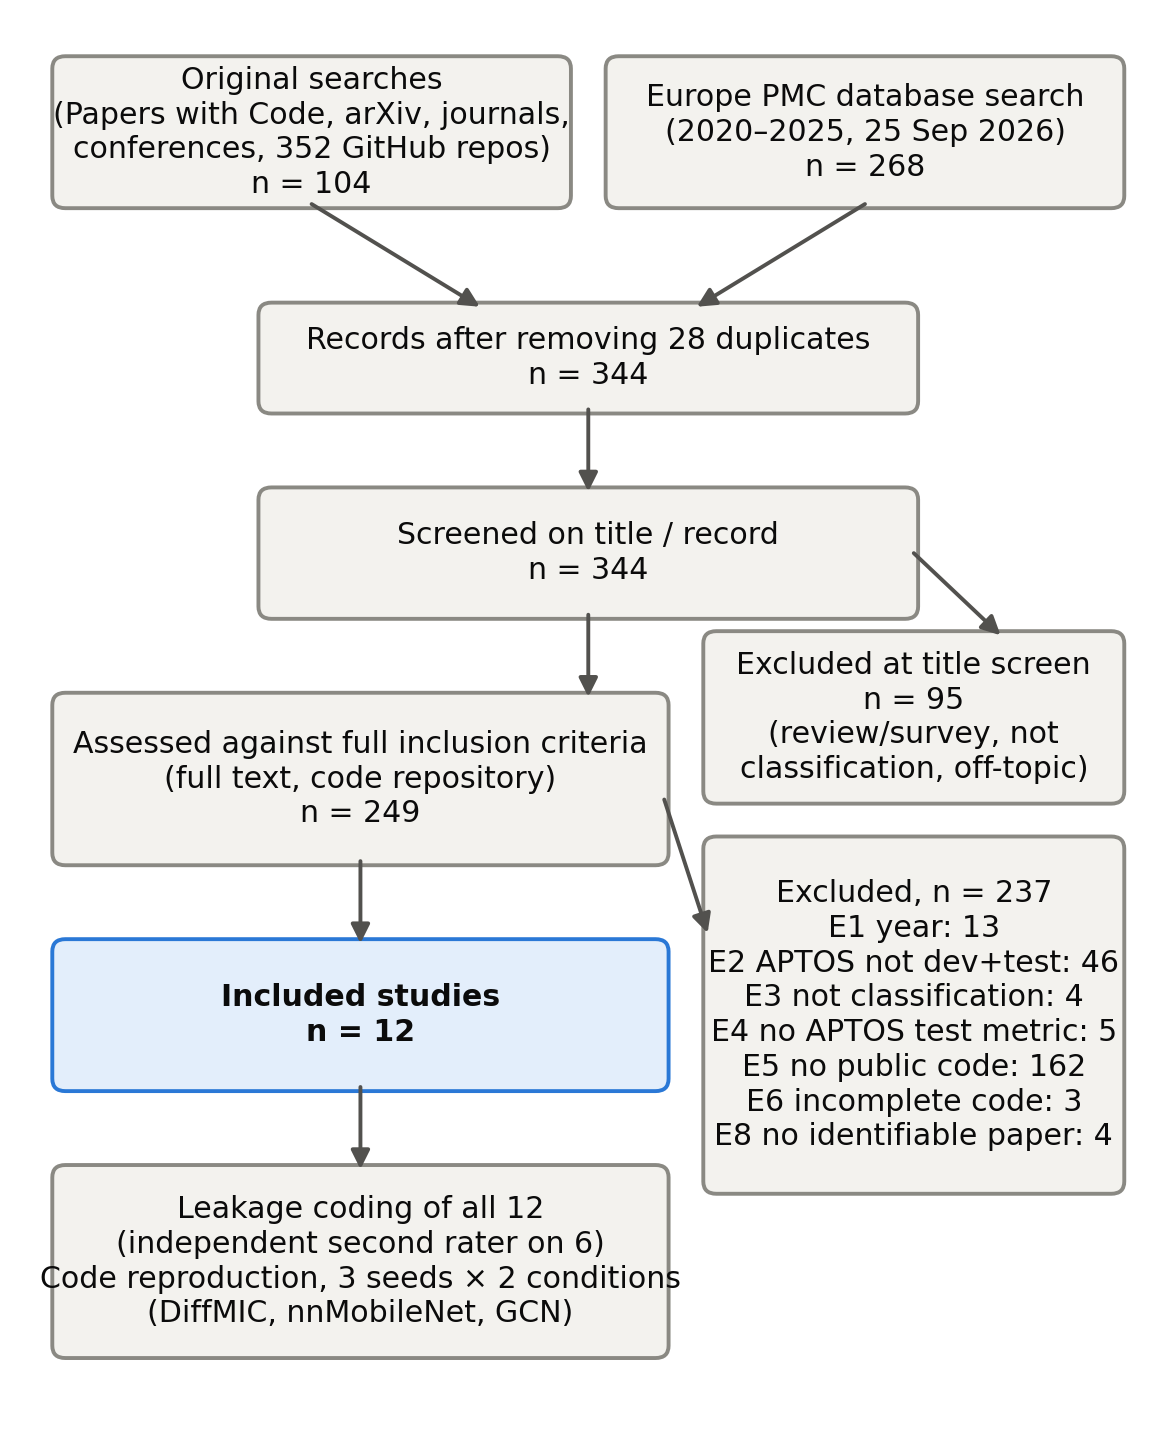
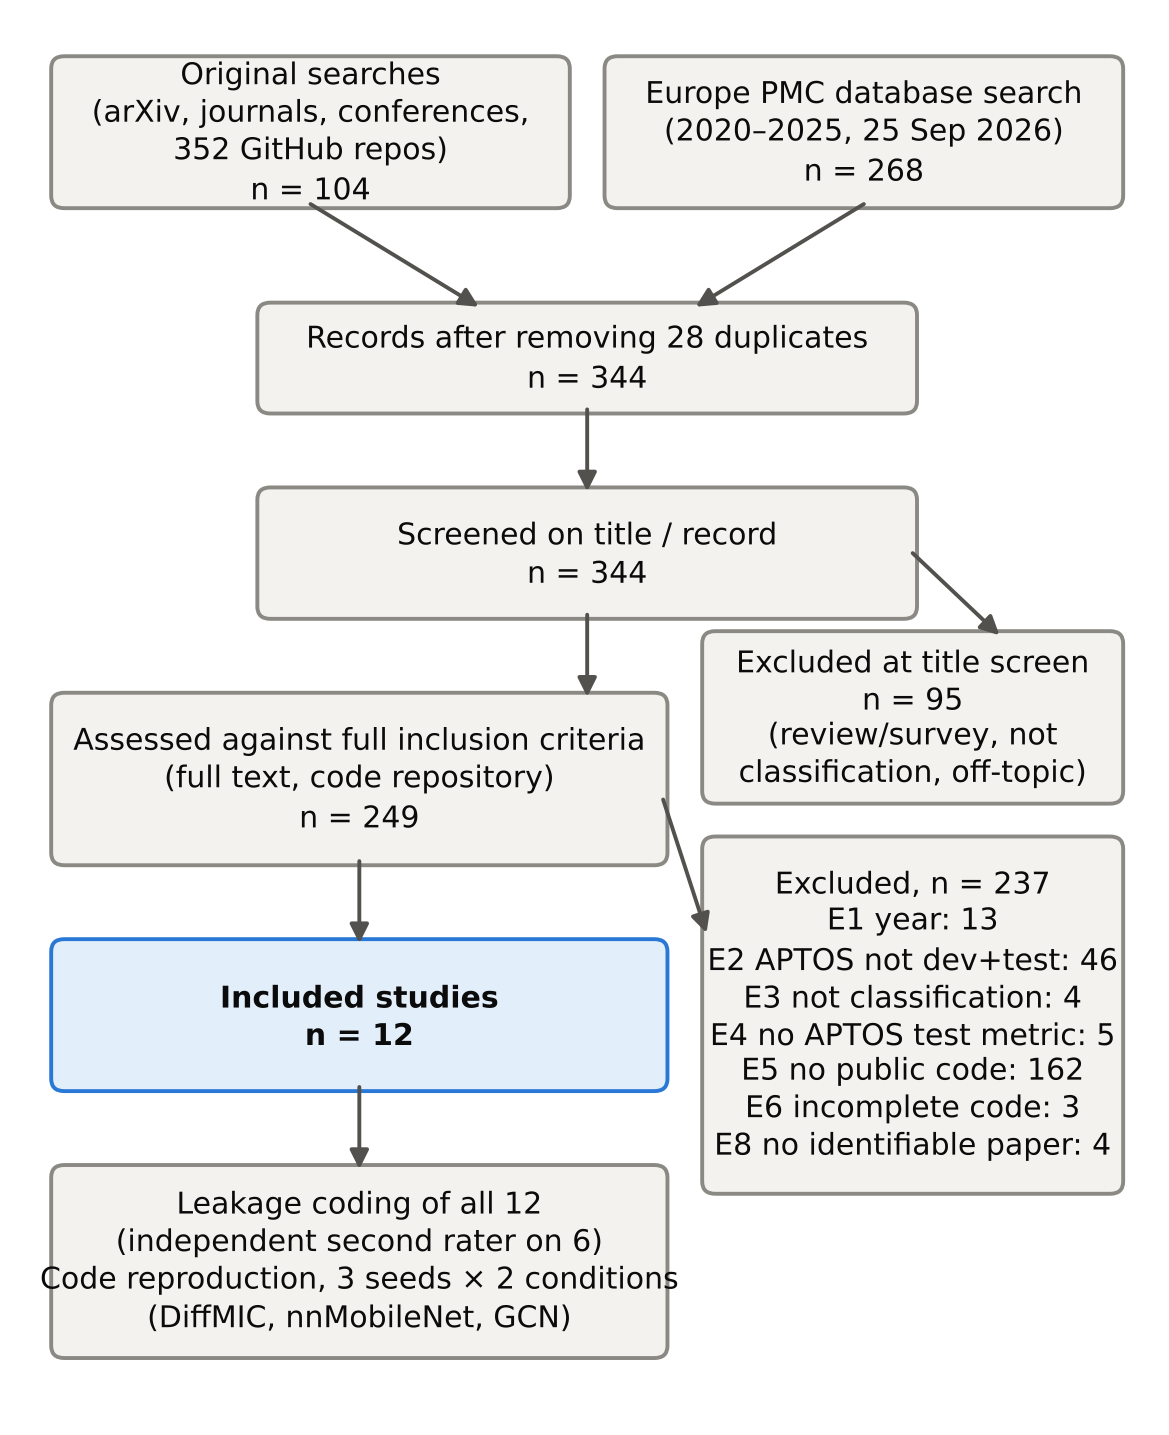
Screening records: drop Papers with Code as a source; align two README sentences with the manuscript
- prisma_counts.csv and figures/prisma.py (with the regenerated prisma_flow.png) no longer list
  Papers with Code among the original searches. The site went offline in July 2025 and the dated
  protocol (inclusion_criteria.md) never listed it; the manuscript no longer names it either.
- README: the pair review now says the first author checked every pair after the AI-assisted
  first rating, and condition A is called our reconstruction of the published protocol.

Claude-Session: https://claude.ai/code/session_012mRqmgQDM2y8JhqFJDmiSi

diff --git a/figures/prisma.py b/figures/prisma.py
@@ -10,7 +10,7 @@ def box(x, y, w, h, t, bold=False, fc=FILL, ec=LINE):
     ax.add_patch(FancyBboxPatch((x, y), w, h, boxstyle="round,pad=0.4,rounding_size=1.2", fc=fc, ec=ec, lw=0.7))
     ax.text(x + w / 2, y + h / 2, t, ha="center", va="center", fontsize=5.4, color=INK, fontweight="bold" if bold else "normal", linespacing=1.25)
 def arr(x1, y1, x2, y2): ax.annotate("", (x2, y2), (x1, y1), arrowprops=dict(arrowstyle="-|>", lw=0.7, color=MUTED, shrinkA=0, shrinkB=0))
-box(1, 116, 47, 14, "Original searches\n(Papers with Code, arXiv, journals,\nconferences, 352 GitHub repos)\nn = 104")
+box(1, 116, 47, 14, "Original searches\n(arXiv, journals, conferences,\n352 GitHub repos)\nn = 104")
 box(52, 116, 47, 14, "Europe PMC database search\n(2020–2025, 25 Sep 2026)\nn = 268")
 arr(24.5, 116, 40, 106); arr(75.5, 116, 60, 106)
 box(20, 96, 60, 10, "Records after removing 28 duplicates\nn = 344")

diff --git a/README.md b/README.md
@@ -9,7 +9,7 @@ Archived on Zenodo: [doi.org/10.5281/zenodo.23047712](https://doi.org/10.5281/ze
 The repository contains:
 
 1. **`leakage_audit/`**: the duplicate-audit tool (v0.3.0). It compares every image pair using exact hashes, perceptual and difference hashes, and pixel correlation of border-cropped thumbnails. It also includes a synthetic validation set.
-2. **`data/duplicates/`**: the duplicate groups found in the 3,662 labeled APTOS 2019 images, with the verified pairs and the review of 94 sampled pairs. The first rating was AI-assisted; 20 of the pairs were also rated by two people, who agreed on all of them.
+2. **`data/duplicates/`**: the duplicate groups found in the 3,662 labeled APTOS 2019 images, with the verified pairs and the review of 94 sampled pairs. The first rating was AI-assisted and the first author then checked every pair; 20 of the pairs were also rated independently by two people, who agreed on all of them.
 3. **`data/splits/`**: the split files used in the reruns.
    - `groupaware_70_15_15/` keeps every duplicate group on one side of the split. Use it to train and test on APTOS 2019 without cross-split duplicates.
    - `diffmic_released/` is the split released with DiffMIC (R0: 2,564 training and 1,098 test images) and the 352-image validation set held out from its training set (R1). It is kept as released, so 50 of its test images have a copy in the training set; `test_meta_nolabels.csv` marks them.
@@ -25,7 +25,7 @@ The repository contains:
 - **Random splits:** these place a copy of a training image in the test set for 6.0% of test images at 80/20 and 5.3% at 70/30.
 - **Checkpoint selection:** choosing the checkpoint on the test set added 2.2 accuracy points for DiffMIC, and 1.2 (model weights) or 0.8 (EMA weights) for nnMobileNet, over validation-based selection.
 - **GCN classifier:** oversampling before the split plus grade-sorted test batches gave 98.2% accuracy. A duplicate-aware split and training-only oversampling gave 81.6% with randomly ordered test batches and 83.2% one image at a time.
-- **Referable DR (grade 2 or higher):** read as a screen, the GCN model's sensitivity fell from 99.0% under the published protocol to 92.2% with the duplicate-aware split and one image at a time. Specificity fell from 99.4% to 93.3%.
+- **Referable DR (grade 2 or higher):** read as a screen, the GCN model's sensitivity fell from 99.0% under our reconstruction of the published protocol to 92.2% with the duplicate-aware split and one image at a time. Specificity fell from 99.4% to 93.3%.
 
 ## Using the duplicate groups
 
